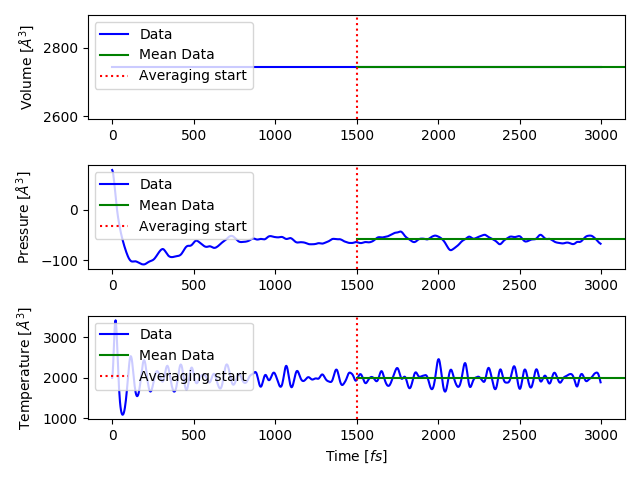
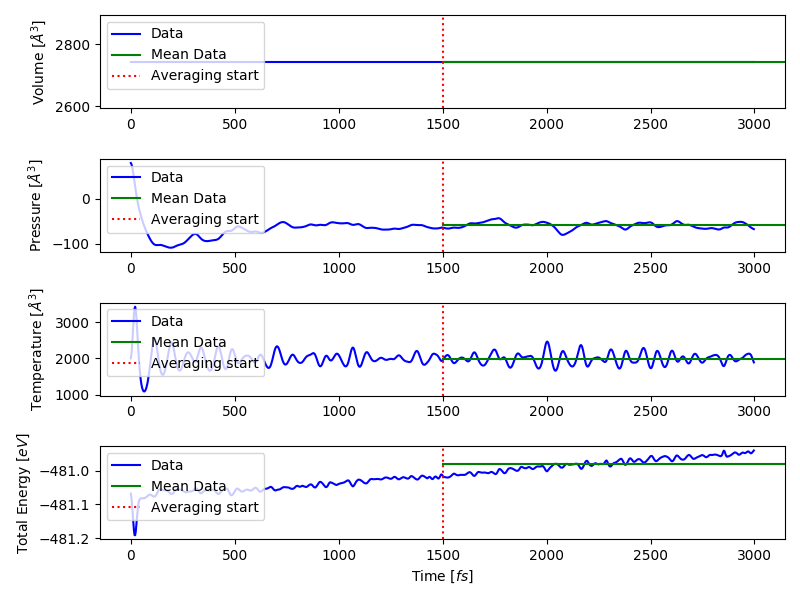
added the total sytem energy to the thermodynamic plot.;

Changed region(s): [[0.0, 0.0, 1.0, 0.9688]]

diff --git a/volumes/gather_data/scripts/iterators.py b/volumes/gather_data/scripts/iterators.py
@@ -6,6 +6,8 @@ import numpy as np
 import functions
 import parsers
 
+pl.rcParams["figure.figsize"] = [8, 6]  # Define plot size
+
 
 def analysis(path, incar, poscar, outcar, fraction, save_plots=False):
     '''
@@ -37,22 +39,24 @@ def analysis(path, incar, poscar, outcar, fraction, save_plots=False):
     lattice, coords = parsers.poscar(join(path, poscar))
 
     # OUTCAR paramters
-    comp, vol, press, temp = parsers.outcar(join(path, outcar))
+    comp, vol, press, temp, etots = parsers.outcar(join(path, outcar))
 
     # Find minium data length because of runs stopping abruptly
     cut = min(map(len, [vol, press, temp]))
     vol = vol[:cut]
     press = press[:cut]
     temp = temp[:cut]
+    etots = etots[:cut]
 
     # Average the last percent amount of holds data
     start = floor(fraction*len(press))
     volume = np.mean(vol[start:])
     pressure = np.mean(press[start:])
     temperature = np.mean(temp[start:])
+    etot = np.mean(etots[start:])
 
     if save_plots:
-        n = 3  # Number of plots
+        n = 4  # Number of plots
         fig, ax = pl.subplots(n)
 
         x = np.array(range(len(vol)))*float(params['POTIM'])  # Time
@@ -60,6 +64,7 @@ def analysis(path, incar, poscar, outcar, fraction, save_plots=False):
         ax[0].plot(x, vol, color='b', label=r'Data')
         ax[1].plot(x, press, color='b', label=r'Data')
         ax[2].plot(x, temp, color='b', label=r'Data')
+        ax[3].plot(x, etots, color='b', label=r'Data')
 
         xmin = x[start]/(max(x)-min(x))  # Fraction not exact due to rounding
         ax[0].axhline(
@@ -80,10 +85,17 @@ def analysis(path, incar, poscar, outcar, fraction, save_plots=False):
                       color='g',
                       label=r'Mean Data'
                       )
+        ax[3].axhline(
+                      etot,
+                      xmin=xmin,
+                      color='g',
+                      label=r'Mean Data'
+                      )
 
         ax[0].set_ylabel(r'Volume $[\AA^{3}]$')
         ax[1].set_ylabel(r'Pressure $[\AA^{3}]$')
         ax[2].set_ylabel(r'Temperature $[\AA^{3}]$')
+        ax[3].set_ylabel(r'Total Energy $[eV]$')
 
         for i in range(n):
             ax[i].axvline(
@@ -107,7 +119,7 @@ def analysis(path, incar, poscar, outcar, fraction, save_plots=False):
 
         pl.close('all')
 
-    return comp, volume, pressure, temperature, start_temp, end_temp
+    return comp, volume, pressure, temperature, etot, start_temp, end_temp
 
 
 def iterate(paths, *args, **kwargs):
@@ -126,6 +138,7 @@ def iterate(paths, *args, **kwargs):
     volumes = []
     pressures = []
     temperatures = []
+    etots = []
     temp_is = []
     temp_fs = []
 
@@ -137,13 +150,14 @@ def iterate(paths, *args, **kwargs):
         print('Run '+'('+str(count)+'/'+counts+')'+': '+i)
 
         # Run data
-        j, k, l, m, n, o = analysis(i, *args)
+        j, k, l, m, e, n, o = analysis(i, *args)
 
         runs.append(i)
         compositions.append(j)
         volumes.append(k)
         pressures.append(l)
         temperatures.append(m)
+        etots.append(e)
         temp_is.append(n)
         temp_fs.append(o)
 
@@ -155,6 +169,7 @@ def iterate(paths, *args, **kwargs):
           'volume': volumes,
           'pressure': pressures,
           'temperature': temperatures,
+          'total_energy': etots,
           'start_temperature': temp_is,
           'end_temperature': temp_fs,
           }

diff --git a/volumes/gather_data/scripts/parsers.py b/volumes/gather_data/scripts/parsers.py
@@ -73,11 +73,13 @@ def outcar(path):
         volumes = The volume data.
         pressures =  The pressure data.
         temperatures = The temperature data.
+        etotal = The total energy of the system.
     '''
 
     volumes = []
     pressures = []
     temperatures = []
+    etotal = []
 
     iteration = 0
     with open(path) as f:
@@ -103,8 +105,12 @@ def outcar(path):
                 if '(temperature' in line:
                     temperatures.append(float(line[5]))
 
+                if 'ETOTAL' in line:
+                    etotal.append(float(line[4]))
+
     volumes = np.array(volumes)
     pressures = np.array(pressures)
     temperatures = np.array(temperatures)
+    etotal = np.array(etotal)
 
-    return composition, volumes, pressures, temperatures
+    return composition, volumes, pressures, temperatures, etotal
